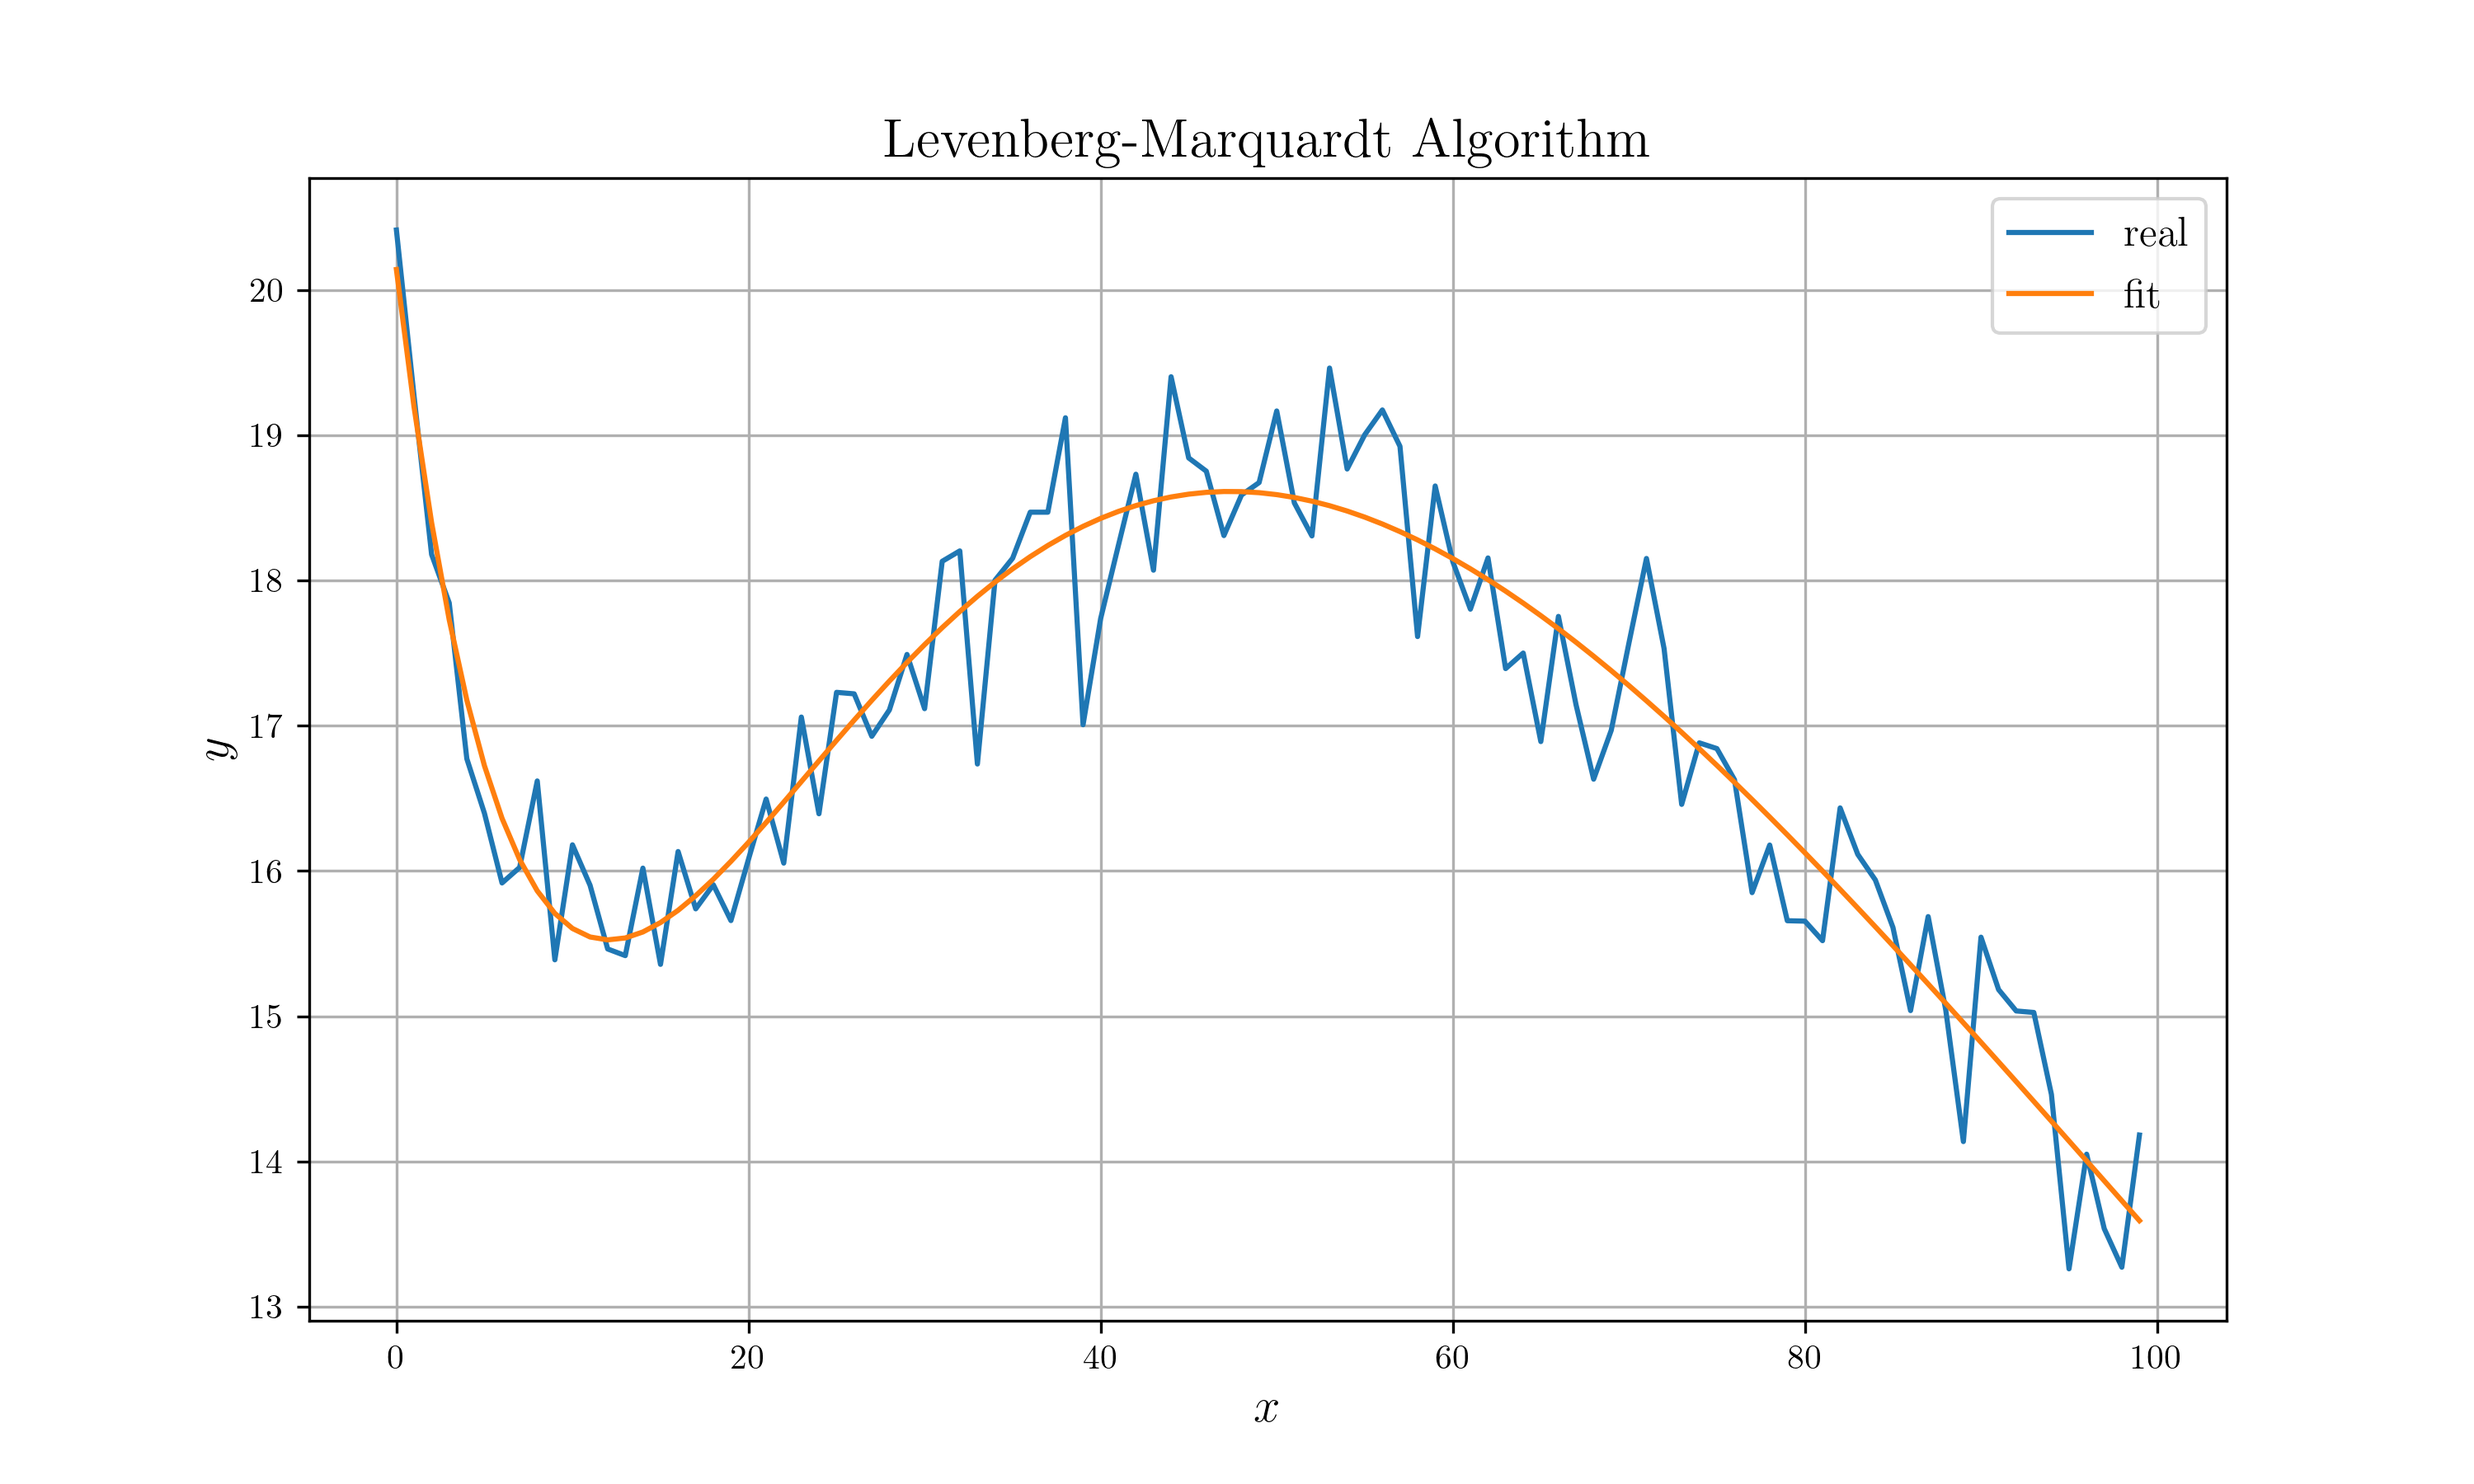
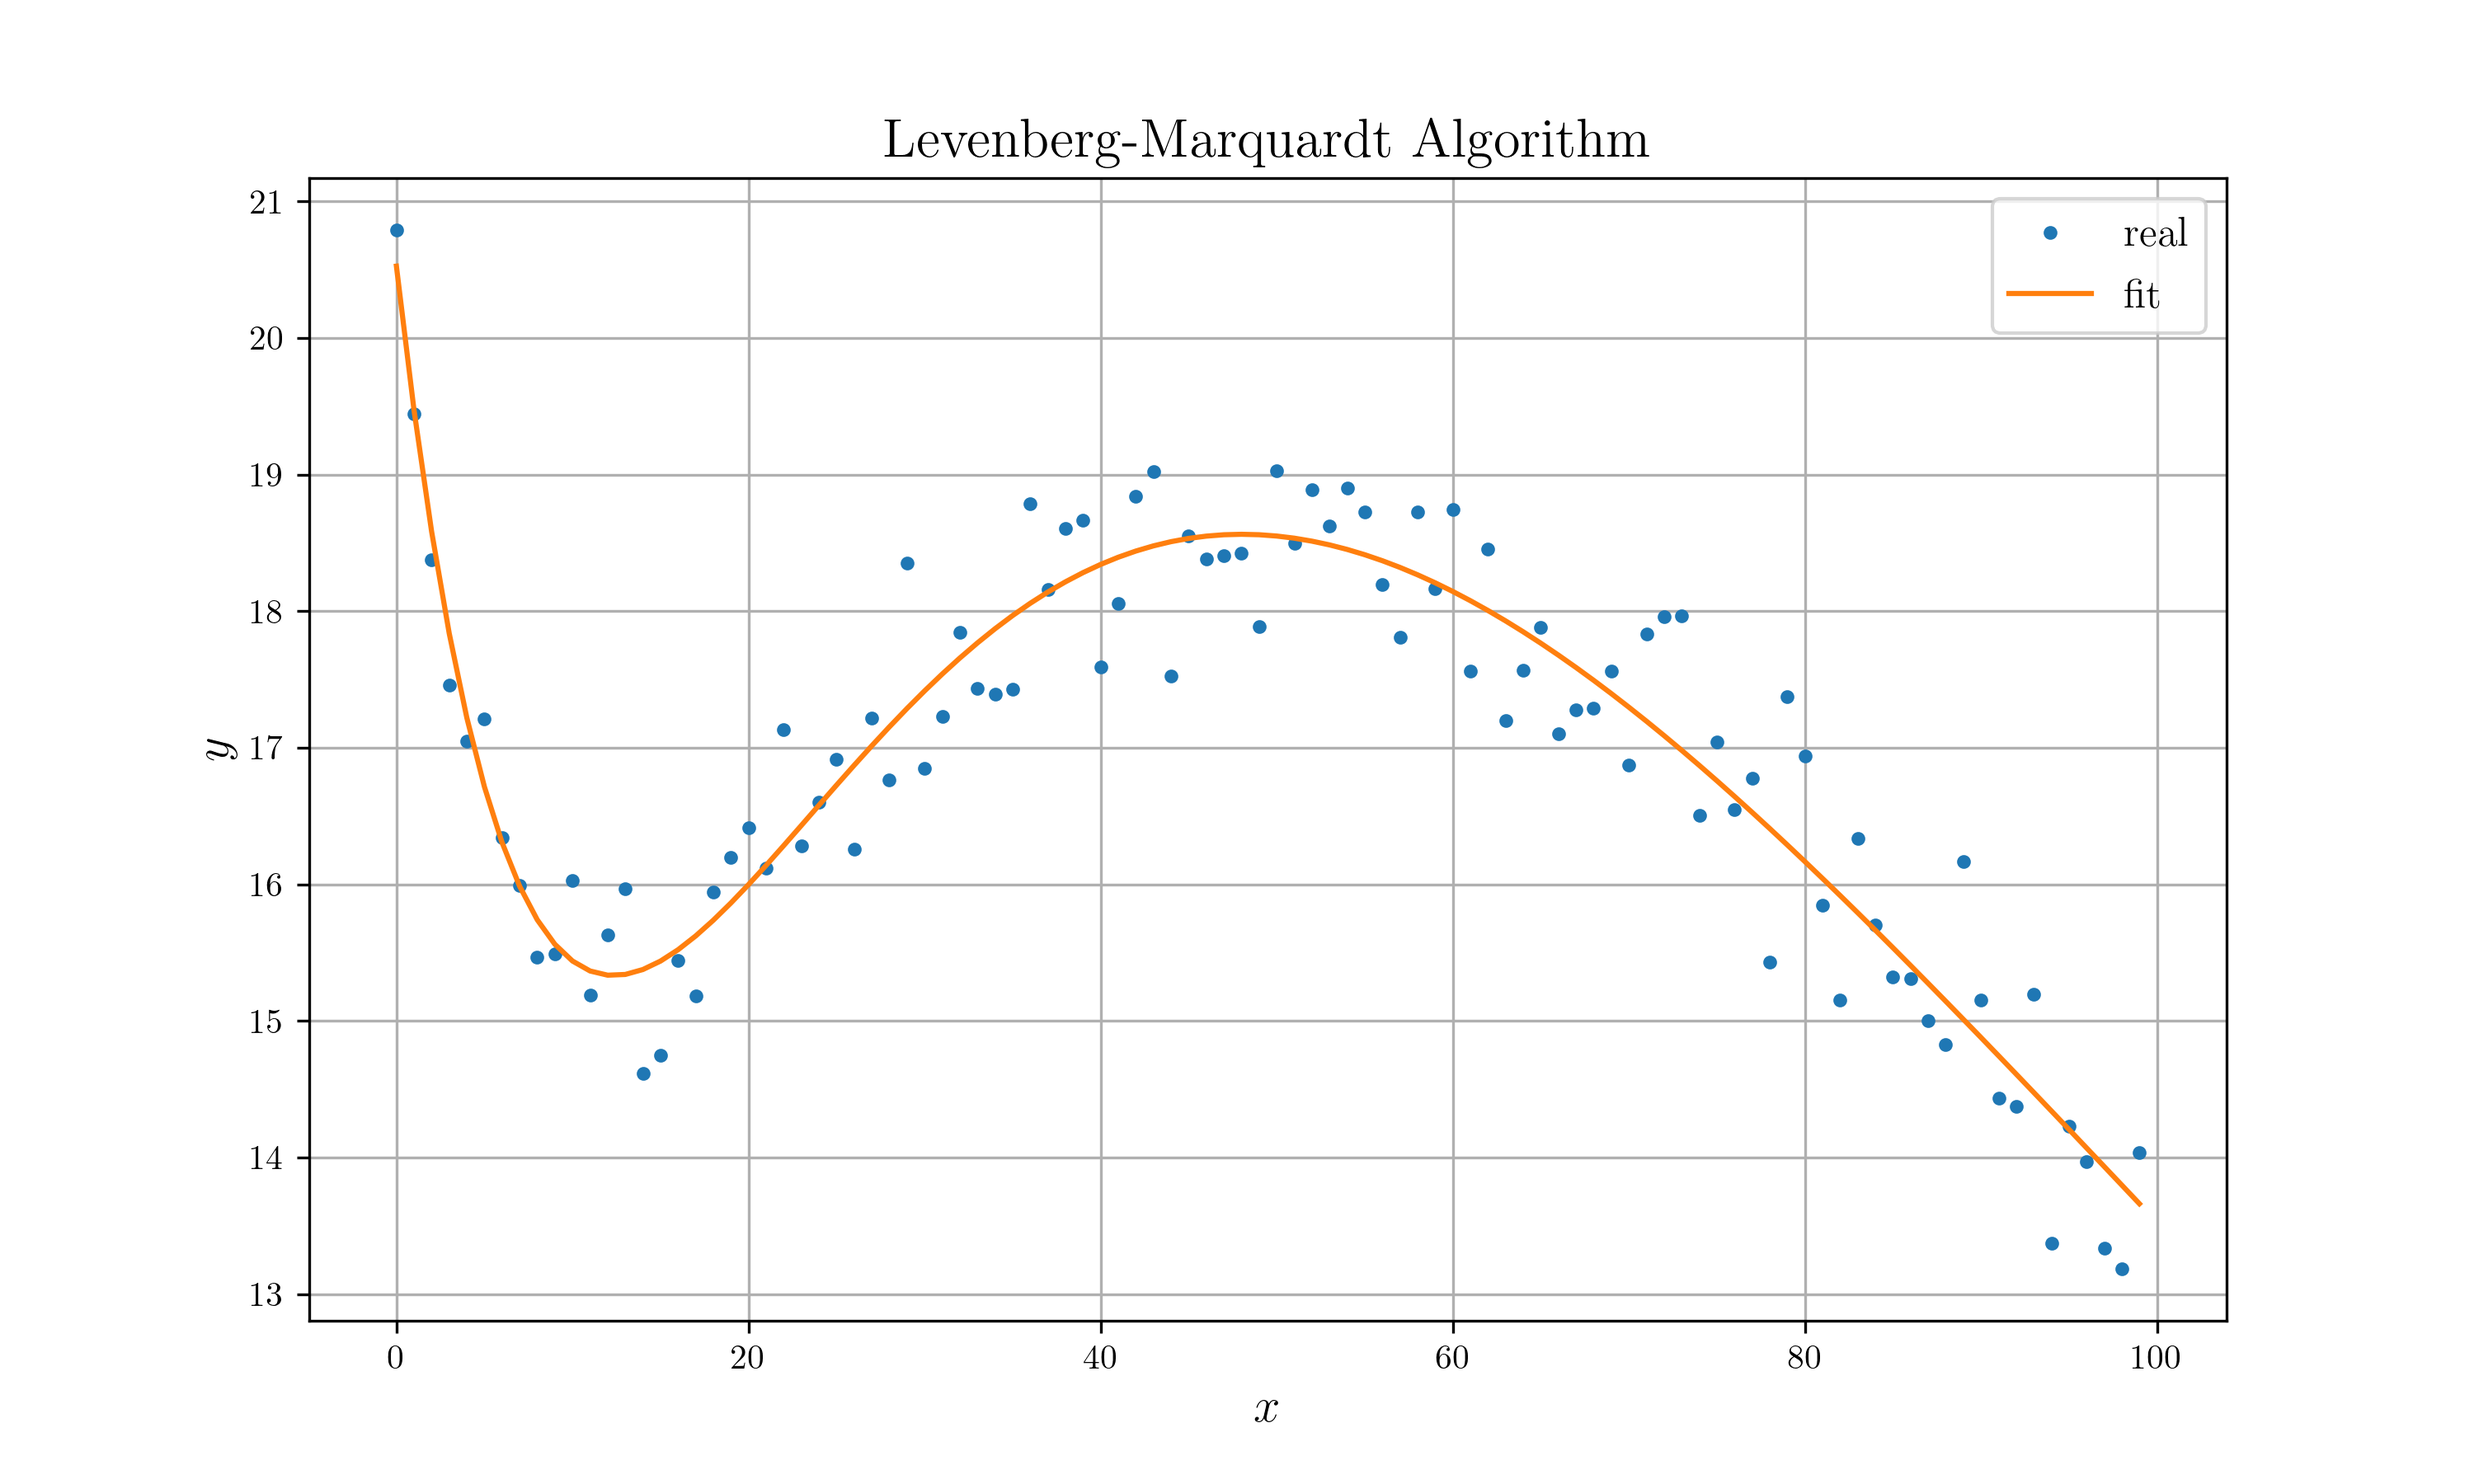
LM Modified

diff --git a/src/bin/lm2.rs b/src/bin/lm2.rs
@@ -1,0 +1,66 @@
+extern crate peroxide;
+use peroxide::*;
+
+// =============================================================================
+// Type Aliases
+// =============================================================================
+type Domain = Vec<f64>;
+type Parameter = Vec<Number>;
+
+fn main() {
+    // =========================================================================
+    // Domain Generation
+    // =========================================================================
+    let t = seq(0, 99, 1);
+    let p_true: Vec<Number> = NumberVector::from_f64_vec(vec![20f64, 10f64, 1f64, 50f64]);
+    let noise = Normal(0., 0.5);
+    let y = &f(&t, p_true).to_f64_vec().to_matrix() + &noise.sample(100).to_matrix();
+
+    // =========================================================================
+    // Initialize
+    // =========================================================================
+    let mut p: Vec<Number> = NumberVector::from_f64_vec(vec![5f64, 2f64, 0.2, 10f64]);
+    let mut p_mat = p.to_f64_vec().to_matrix();
+    let mut y_hat = f(&t, p.clone()).to_f64_vec().to_matrix();
+    let mut j = jacobian(|p| f(&t, p), p.to_f64_vec());
+    let mut jtj = &j.t() * &j;
+    let mut lambda = 1e-2 * max(jtj.diag());
+    let mut nu = 2f64;
+
+    // =========================================================================
+    // Update
+    // =========================================================================
+    for _i in 0 .. 30 {
+        let b = &jtj + &(lambda * jtj.to_diag());
+        let h: Matrix;
+        match b.inv() {
+            None => break,
+            Some(m) => {
+                h = m * j.t() * (&y - &y_hat);
+            }
+        }
+        let p_temp = &p_mat + &h;
+        let p_temp_num: Vec<Number> = NumberVector::from_f64_vec(p_temp.col(0));
+        let y_hat_temp = f(&t, p_temp_num.clone()).to_f64_vec().to_matrix();
+        let rho = ((&y - &y_hat_temp).t() * (&y - &y_hat_temp))[(0,0)] / (&h.t() * &(lambda * (&jtj.to_diag() * &h) + j.t() * (&y - &y_hat)))[(0,0)];
+        if rho > 0f64 {
+            p_mat = p_temp;
+            p = NumberVector::from_f64_vec(p_mat.col(0));
+            y_hat = y_hat_temp;
+            j = jacobian(|p| f(&t, p), p.to_f64_vec());
+            jtj = &j.t() * &j;
+            lambda = lambda * max(vec![1f64/3f64, 1f64 - (2f64*rho - 1f64).powi(3)]);
+            nu = 2f64;
+        } else {
+            lambda = lambda * nu;
+            nu *= 2f64;
+        }
+    }
+    p_mat.print();
+}
+
+fn f(t: &Domain, p: Parameter) -> Parameter {
+    t.clone().into_iter()
+        .map(|x| p[0] * (-x / p[1]).exp() + p[2] * x * (-x / p[3]).exp())
+        .collect()
+}

diff --git a/src/bin/optimize.rs b/src/bin/optimize.rs
@@ -115,6 +115,7 @@ fn main() {
         .set_title("Levenberg-Marquardt Algorithm")
         .set_xlabel("$x$")
         .set_ylabel("$y$")
+        .set_marker(vec![Point, Line])
         .savefig().expect("Can't draw plot");
 }
 
